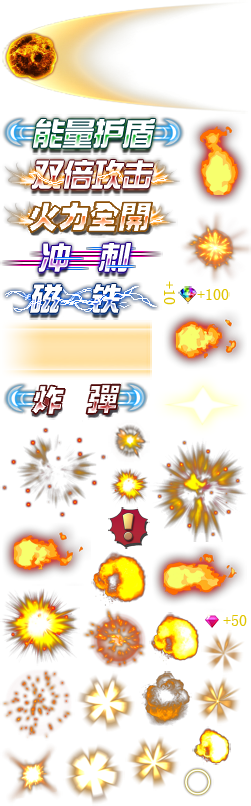
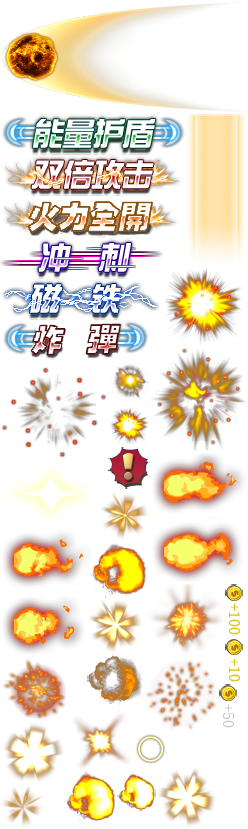
吃金币飘字优化

diff --git a/assets/Script/scene/ui/FightUI.ts b/assets/Script/scene/ui/FightUI.ts
@@ -171,7 +171,7 @@ export default class FightUI extends cc.Component implements IMediator{
             this.showEatItemName.node.setPosition(playerPos.x, playerPos.y);
             //超过屏幕边界修正过来
             CommonUtil.pClamp(this.showEatItemName.node);
-            ObserverManager.sendNotification(GameEvent.EAT_ITEM_NAME_FLY_OVER, itemConfigObj)
+            ObserverManager.sendNotification(GameEvent.EAT_ITEM, itemConfigObj)
             this.showEatItemName.node.runAction(cc.sequence(
                 cc.scaleTo(0.1, 1.2),
                 cc.scaleTo(0.2, 1),
@@ -187,7 +187,7 @@ export default class FightUI extends cc.Component implements IMediator{
             eatCoinNameNode.setPosition(playerPos.x, playerPos.y);
             eatCoinNameNode.runAction(cc.sequence(
                 cc.delayTime(1),
-                cc.blink(0.5,2),
+                cc.moveBy(0.5,new cc.Vec2(0,30)).easing(cc.easeIn(3)),
                 cc.callFunc(function(){
                     this.eatCoinEffectPool.put(eatCoinNameNode);},this))
             );

diff --git a/assets/Script/sprites/ShipSprite.ts b/assets/Script/sprites/ShipSprite.ts
@@ -48,7 +48,7 @@ export default class ShipSprite extends cc.Component implements IMediator{
 
     getCommands():string[] {
         return [GameEvent.RESTART_GAME, GameEvent.GAME_OVER, GameEvent.ITEM_COLLISION_PLAYER,
-            GameEvent.ROCK_COLLISION_PLAYER, GameEvent.EAT_ITEM_NAME_FLY_OVER,GameEvent.COLLIDER_MAGNET];
+            GameEvent.ROCK_COLLISION_PLAYER, GameEvent.EAT_ITEM,GameEvent.COLLIDER_MAGNET];
     }
     
     protected onLoad(): void {
@@ -274,7 +274,7 @@ export default class ShipSprite extends cc.Component implements IMediator{
         this.hurt();
     }
 
-    private EAT_ITEM_NAME_FLY_OVER(itemConfigObj:any){
+    private EAT_ITEM(itemConfigObj:any){
         switch (itemConfigObj.name) {
             case ItemConfig.itemConfig.item_cc.name:
                 this.itemFunctionSpurt();

diff --git a/assets/Script/scene/FightScene.ts b/assets/Script/scene/FightScene.ts
@@ -94,7 +94,7 @@ export default class FightScene extends cc.Component implements IMediator {
 
     getCommands(): string[] {
         return [GameEvent.KILL_ENEMY, GameEvent.CHANGE_PLANE, GameEvent.PROTECT_EFFECT, GameEvent.GAME_OVER,
-            GameEvent.BULLET_HIT_ENEMY, GameEvent.ITEM_COLLISION_PLAYER, GameEvent.EAT_ITEM_NAME_FLY_OVER,GameEvent.SPURT_DURATION];
+            GameEvent.BULLET_HIT_ENEMY, GameEvent.ITEM_COLLISION_PLAYER, GameEvent.EAT_ITEM,GameEvent.SPURT_DURATION];
     }
 
     protected onLoad(): void {
@@ -716,7 +716,7 @@ export default class FightScene extends cc.Component implements IMediator {
 
     }
 
-    private EAT_ITEM_NAME_FLY_OVER(itemConfigObj:any){
+    private EAT_ITEM(itemConfigObj:any){
     }
 
     private SPURT_DURATION(bSpurt:boolean){

diff --git a/assets/Script/common/GameEvent.ts b/assets/Script/common/GameEvent.ts
@@ -26,7 +26,7 @@ export class GameEvent {
     public static BULLET_HIT_ENEMY:string = "BULLET_HIT_ENEMY";
 
     //功能道具飘出结束
-    public static EAT_ITEM_NAME_FLY_OVER:string = "EAT_ITEM_NAME_FLY_OVER";
+    public static EAT_ITEM:string = "EAT_ITEM";
 
     //开始冲刺（已经在冲刺中）
     public static SPURT_DURATION:string = "SPURT_DURATION";
